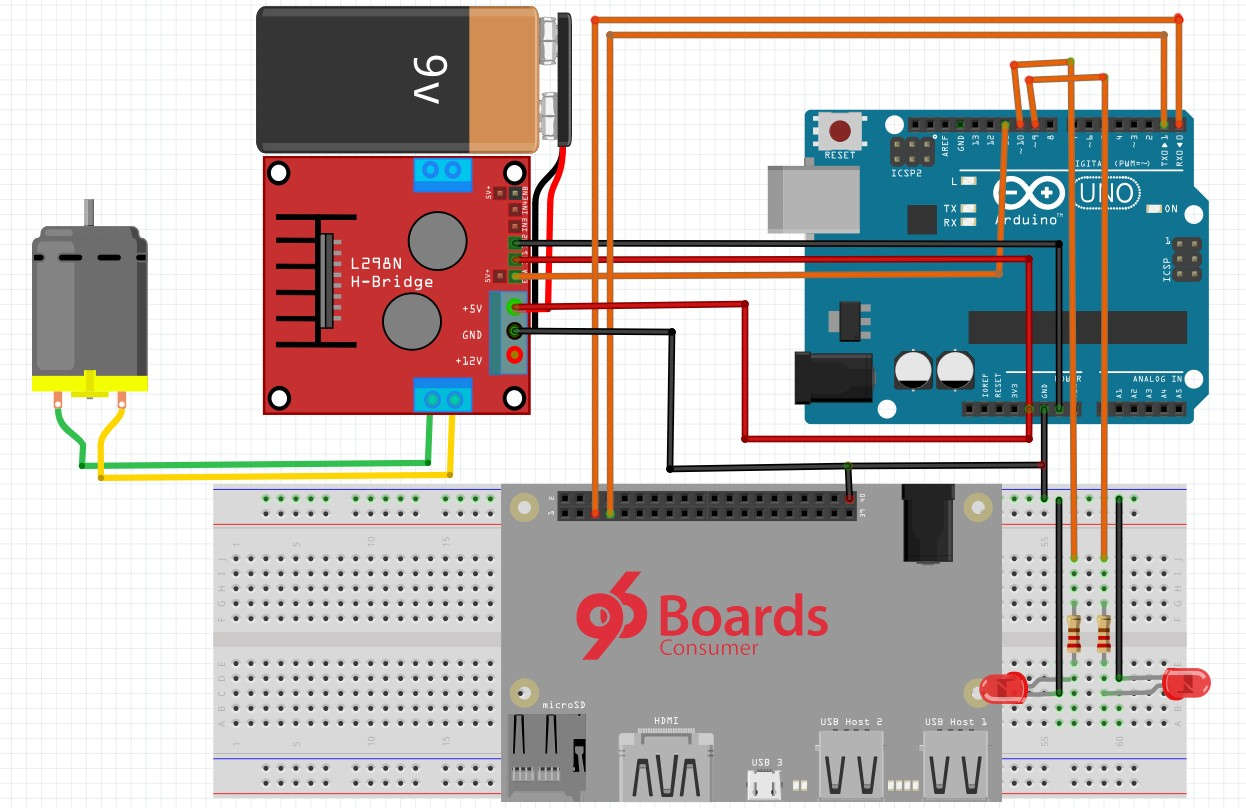
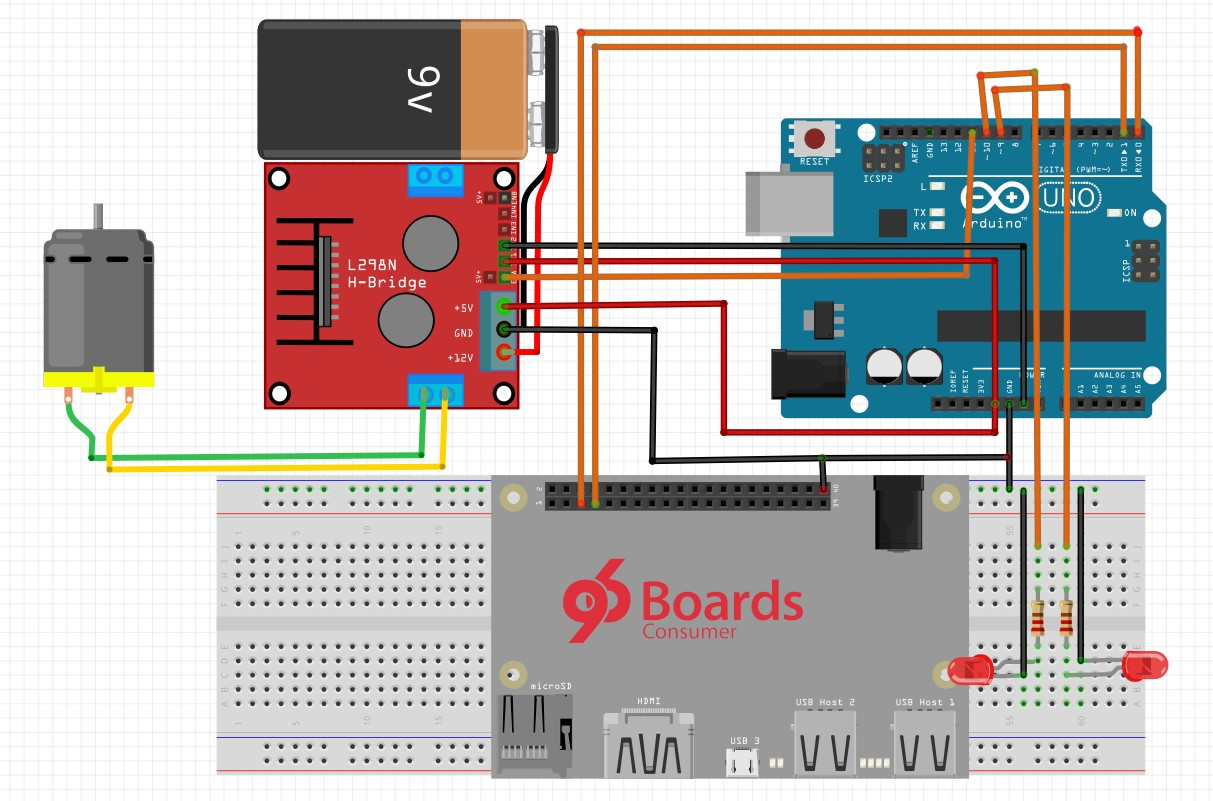
hvac: change the schematic

Changed region(s): [[0.0, 0.0, 0.9761, 0.9988], [0.4575, 0.6866, 0.6711, 0.8115]]

diff --git a/README.md b/README.md
@@ -147,8 +147,8 @@ Once flash has been completed. Proceed to the below sections to execute HVAC dem
 ![Circuit Diagram](./agl_hvac.jpg)
 
 - Make sure the Dragonboard410c is powered off
-- Connect DC motor and LEDs to Sensors Mezzanine as per above schematic
-- Connect LCD to Dragonboard410c via HDMI cable for display and Micro USB cable for touch input.
+- Connect DC motor and LEDs to Arduino as per above schematic
+- Connect LCD to Dragonboard410c via HDMI cable for display and Micro USB cable for touch input
 - Power on your 96Boards CE with compatible power supply
 - Dragonboard410c should now boot into AGL and homescreen should be visible.
 
